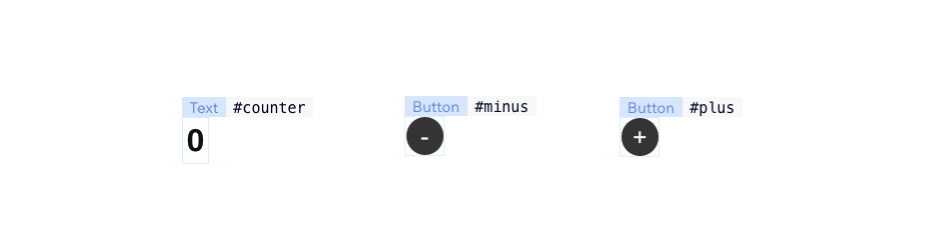
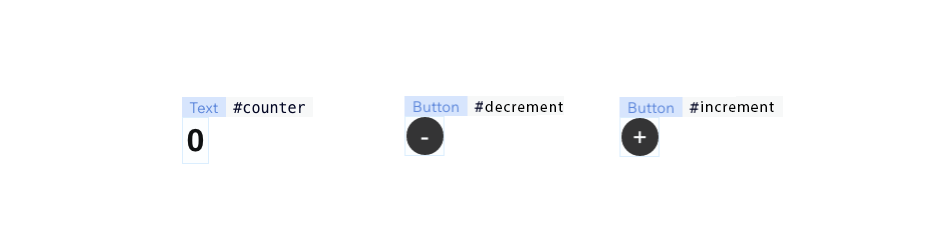
docs(velo-bind): docs overhaul (#4)
* docs(velo-bind): docs overhaul WIP

* commit

* wip

* docs(velo-bind) fix docs

diff --git a/packages/velo-bind-docs/src/components/HomepageFeatures/index.tsx b/packages/velo-bind-docs/src/components/HomepageFeatures/index.tsx
@@ -1,6 +1,7 @@
 import React from "react";
 import clsx from "clsx";
 import styles from "./styles.module.css";
+import Link from "@docusaurus/Link";
 
 type FeatureItem = {
   title: string;
@@ -14,8 +15,8 @@ const FeatureList: FeatureItem[] = [
     Svg: require("@site/static/img/undraw_docusaurus_mountain.svg").default,
     description: (
       <>
-        Bind element properties to a state in a declarative fashion using the{" "}
-        <code>bind</code> function
+        Add <code>velo-bind</code> to your site's packages and your'e all set.
+        No configuration required.
       </>
     ),
   },
@@ -24,21 +25,25 @@ const FeatureList: FeatureItem[] = [
     Svg: require("@site/static/img/undraw_docusaurus_tree.svg").default,
     description: (
       <>
-        Work easily with repeaters, multistate box and other more complex
-        elements in the wix editor
+        Work easily with repeaters, multistate box and other complex elements
+        within the wix editor
       </>
     ),
   },
   {
-    title: "Based using MobX",
+    title: "Manage Your App State With Ease",
     Svg: require("@site/static/img/undraw_docusaurus_tree.svg").default,
     description: (
       <>
-        Work easily with repeaters, multistate box and other more complex
-        elements in the wix editor
+        Based on the popular state management library{" "}
+        <a href="https://mobx.js.org" target="_blank">
+          mobx
+        </a>
+        . <code>velo-bind</code> lets you harness the power of declartive
+        programing with ease.
       </>
     ),
-  }
+  },
 ];
 
 function Feature({ title, Svg, description }: FeatureItem) {
@@ -63,6 +68,14 @@ export default function HomepageFeatures(): JSX.Element {
           {FeatureList.map((props, idx) => (
             <Feature key={idx} {...props} />
           ))}
+        </div>
+        <div className={styles.gettingStarted}>
+          <Link
+            className="button button--secondary button--lg"
+            to="/docs/getting-started"
+          >
+            Getting Started
+          </Link>
         </div>
       </div>
     </section>

diff --git a/packages/velo-bind-docs/docusaurus.config.js b/packages/velo-bind-docs/docusaurus.config.js
@@ -10,7 +10,7 @@ const projectName = "velo";
 /** @type {import('@docusaurus/types').Config} */
 const config = {
   title: "Velo Bind",
-  tagline: "A reactive way to interact with elements on Wix Editor",
+  tagline: "Reactive way to interact with components within Wix editors",
   favicon: "img/favicon.svg",
 
   // Set the production url of your site here
@@ -43,6 +43,7 @@ const config = {
         docs: {
           sidebarPath: require.resolve("./sidebars.js"),
           editUrl: `https://github.com/${organizationName}/${projectName}/tree/main`,
+          routeBasePath: '/',
         },
         theme: {
           customCss: require.resolve("./src/css/custom.css"),
@@ -89,11 +90,11 @@ const config = {
             items: [
               {
                 label: "Getting Started",
-                to: "/docs/getting-started",
+                to: "/",
               },
               {
                 label: "Docs",
-                to: "/docs/getting-started",
+                to: "/",
               },
             ],
           },
@@ -102,7 +103,7 @@ const config = {
             items: [
               {
                 label: "GitHub",
-                href: "https://github.com/tombenezra/velo-mvvm/tree/master/packages/velo-bind",
+                href: "https://github.com/wix-incubator/velo/tree/master/packages/velo-bind",
               },
             ],
           },

diff --git a/packages/velo-bind-docs/src/components/HomepageFeatures/styles.module.css b/packages/velo-bind-docs/src/components/HomepageFeatures/styles.module.css
@@ -9,3 +9,9 @@
   height: 200px;
   width: 200px;
 }
+
+.gettingStarted {
+  display: flex;
+  align-items: center;
+  flex-direction: column;
+}

diff --git a/packages/velo-bind-docs/docs/getting-started.md b/packages/velo-bind-docs/docs/getting-started.md
@@ -1,19 +1,30 @@
 ---
 sidebar_position: 1
+slug: /
 ---
 
 # Getting Started
 
-This module is aimed to be used in **[Wix Velo](https://www.wix.com/velo/reference/api-overview)** environment. make sure you're running on Wix editor with dev mode on.
+This library is aimed to be used in a **[Wix Velo](https://www.wix.com/velo/reference/api-overview)** environment. Make sure you're running on a Wix site with [developer mode on](https://support.wix.com/en/article/about-velo-by-wix#to-enable-velo-on-your-site).
 
 ## Installation
 
-Follow the instructions [here](https://support.wix.com/en/article/velo-working-with-npm-packages) to install `@wix/velo-bind` from npm on your Wix site.
+Follow the instructions [here](https://support.wix.com/en/article/velo-working-with-npm-packages) and install `@wix/velo-bind` from npm on your Wix site.
 
-Once you have the `@wix/velo-bind` package installed on your site, imported the desired API from the package on any code file (page, public or backend)
+## Hello World
+
+#### Objective: Select a title on the stage and change its text
+
+> **_NOTE:_**  For this example to work, please add a text component ([see how](https://support.wix.com/en/article/wix-editor-adding-and-editing-text)) to your site and set its id ([see how](https://support.wix.com/en/article/getting-started-with-velo-by-wix#step-3-add-elements-to-the-page)) to `text1`
 
 ```javascript
-import { bind } from "velo-bind";
+import { bind } from "@wix/velo-bind";
+
+$w.onReady(() => {
+    const {text1} = bind($w); //text1 is the id of the text component that you have on the editor's stage
+    text1.text = () => `Hello World`;
+});
+
 ```
 
-For more information on how to work with the `bind` function see the **[basic example](../docs/bind/hello-world.md)**
+Next, we'll use dynamic content as the text

diff --git a/packages/velo-bind-docs/docs/special-props.md b/packages/velo-bind-docs/docs/special-props.md
@@ -1,12 +1,12 @@
 ---
-sidebar_position: 3
+sidebar_position: 4
 ---
 
-# Customized Properties
+# Special Properties
 
 Some commonly used properties that are currently declared as readonly may be bound to a piece of state as well.
-Take the [HiddenMixin](https://www.wix.com/velo/reference/$w/hiddenmixin) for example, which is available on almost every editor element; you may control element visiblity via the `show/hide` api, while `hidden/isVisible` are readonly props that cannot be set.
-Bound elements kinda go around this limitation so the following will work:
+Take the [HiddenMixin](https://www.wix.com/velo/reference/$w/hiddenmixin) for example, which is available on almost every editor element; you may control element visiblity via the `show/hide` API, while `hidden/isVisible` are readonly props that cannot be set.
+Bound elements go around this limitation so the following will work:
 
 ```javascript
 import { makeAutoObservable, bind } from "@wix/velo-bind";
@@ -16,7 +16,7 @@ const state = makeAutoObservable({
 });
 const { button } = bind($w);
 button.isVisible = () => buttonVisibility;
-// any change to buttonVisiblity value will change the button visiblity
+// any change to buttonVisibility value will change the button visibility
 ```
 
 These properties currently include:

diff --git a/packages/velo-bind/README.md b/packages/velo-bind/README.md
@@ -10,9 +10,9 @@ This module is aimed to be used in Wix Velo environment.
 
 1. Open a Wix Site
 2. Enable Dev Mode
-3. Add `velo-bind` npm module
+3. Add `@wix/velo-bind` npm module
 
-Follow the [installation instuctions](https://support.wix.com/en/article/velo-working-with-npm-packages) to learn more.
+Follow the [installation instructions](https://support.wix.com/en/article/velo-working-with-npm-packages) to learn more.
 
 ## Examples
 
@@ -29,8 +29,8 @@ const state = makeAutoObservable({
 
 const { counter, increment, decrement } = bind($w);
 counter.text = () => `${state.count}`;
-increment.onClick(() => model.count++);
-decrement.onClick(() => model.count--);
+increment.onClick(() => state.count++);
+decrement.onClick(() => state.count--);
 ```
 
 ### Working with repeaters

diff --git a/packages/velo-bind-docs/docs/counter.md b/packages/velo-bind-docs/docs/counter.md
@@ -1,0 +1,25 @@
+---
+sidebar_position: 3
+---
+
+# Full Example - Counter
+
+Given a Wix site with the following elements: Text (`#counter`), Button (`#increment`), Button (`#decrement`) the code will look as follows:
+
+![Counter Example](../static/img/counter.png)
+
+```javascript
+import { bind, makeAutoObservable } from "@wix/velo-bind";
+
+const state = makeAutoObservable({
+  count: 0,
+});
+
+const { counter, increment, decrement } = bind($w);
+
+counter.text = () => String(state.count);
+increment.onClick(() => state.count++);
+decrement.onClick(() => state.count--);
+```
+
+unlike the traditional `$w` imperative syntax, every state change to `state.count` will automatically populate back to the text element `#counter`.

diff --git a/packages/velo-bind-docs/docs/repeaters.md b/packages/velo-bind-docs/docs/repeaters.md
@@ -5,9 +5,9 @@ sidebar_position: 2
 # Working with Repeaters
 
 A [Repeater](https://www.wix.com/velo/reference/$w/repeater) is a unique Wix Editor Element which is responsible for displaying a list of elements from either a data-set (dynamic) or an array set by Velo code).
-Consider a wix site with a repeater element (`#repeater`), every item in the repeater represents an item in `state.list`.
+Consider a Wix site with a repeater element (`#repeater`), every item in the repeater represents an item in `state.list`.
 
-![Repeater Example](../../static/img/repeater.png)
+![Repeater Example](../static/img/repeater.png)
 
 ```javascript
 import { makeAutoObservable, bind } from "@wix/velo-bind";

diff --git a/packages/velo-bind-docs/docs/dynamic-content.md b/packages/velo-bind-docs/docs/dynamic-content.md
@@ -1,0 +1,21 @@
+---
+sidebar_position: 2
+---
+# Dynamic Content
+
+#### Objective: Change an element text based on a dynamic content
+```javascript
+import { bind, makeAutoObservable } from "@wix/velo-bind";
+
+$w.onReady(() => {
+    const state = makeAutoObservable({
+        counter: 0
+    }); //create a dynamic state object with a property counter that equals to 0
+    
+    setInterval(() => state.counter++, 500); //increment the counter every 500ms
+    
+    const {text1} = bind($w);
+    text1.text = () => `Counter is: ${state.counter}`;
+});
+
+```
